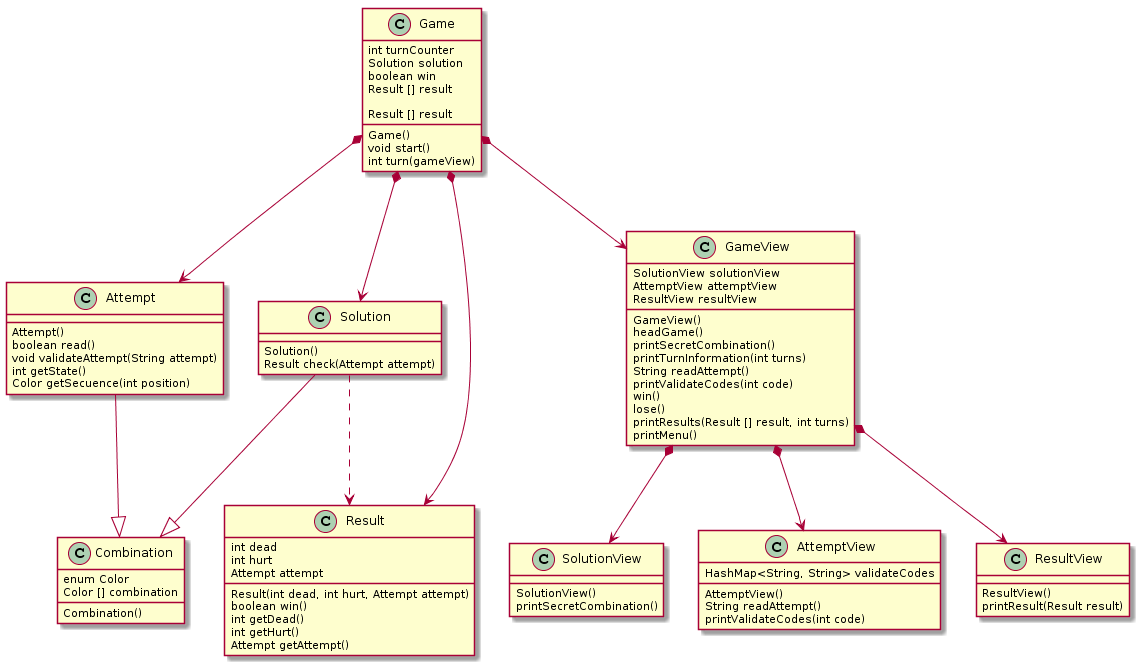
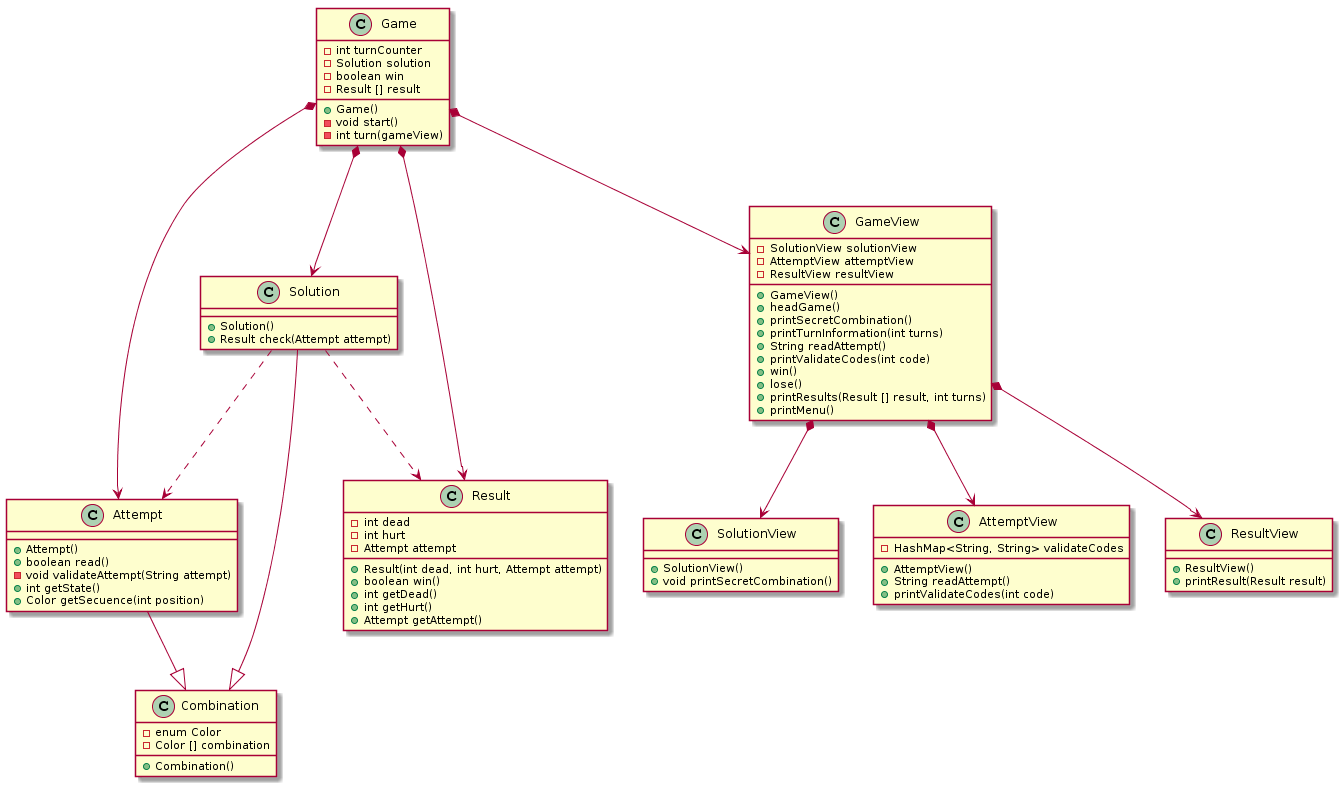
Code cleaned

diff --git a/src/Attempt.java b/src/Attempt.java
@@ -1,47 +1,17 @@
 
 public class Attempt extends Combination{
 	
-	private int state;
-	
 	public Attempt(String input){
 		this.combination = new Color[4];
-		this.validateAttempt(input);
-		if(state == 0){
-			for(int i = 0; i < input.length(); i++){
-				for(Color color : Color.values()) {
-					
-					if(color.toString().equals( input.substring(i, i+1)) ){
-						this.combination[i] = color;
-					}
+		for(int i = 0; i < input.length(); i++){
+			for(Color color : Color.values()) {
+				if(color.toString().equals( input.substring(i, i+1)) ){
+					this.combination[i] = color;
 				}
 			}
 		}
 	}
 	
-	private void validateAttempt(String attempt){
-		if(attempt.length() != 4){
-			this.state = 2;
-		}
-		else{
-			for(int i = 0; i < attempt.length(); i++){
-				boolean exist = false;
-				for(Color color : Color.values()){
-					if(color.name() == attempt.substring(i, i+1)){
-						combination[i] = color;
-						exist = true;
-					}
-					if(!exist){
-						this.state = 1;
-					}
-				}
-			}
-		}
-		this.state = 0;
-	}
-	
-	public int getState(){
-		return this.state;
-	}
 	
 	public Color getCombination(int position){
 		return combination[position];

diff --git a/src/Game.java b/src/Game.java
@@ -18,16 +18,13 @@ public class Game {
 		this.result = new ArrayList<Result>();
 	}
 	
-	public int nextAttempt(String attemptInput){	
+	public void nextAttempt(String attemptInput){	
 		Attempt attempt = new Attempt(attemptInput);
-	    if(attempt.getState() == 0){
-	    	this.result.add(this.solution.check(attempt));
-	    	if(!this.result.get(this.result.size()-1).win()){    		
-	    	} else {
-	    		this.win = true;
-	    	}
-	    }
-		return attempt.getState();
+    	this.result.add(this.solution.check(attempt));
+    	if(!this.result.get(this.result.size()-1).win()){    		
+    	} else {
+    		this.win = true;
+    	}
 	}
 	
 	public boolean isWon(){

diff --git a/src/GameView.java b/src/GameView.java
@@ -25,12 +25,11 @@ public class GameView {
 			this.solutionView.printSecretCombination();
 			this.printResults(this.game.getResult());
 			this.printAttemptNumberInformation(game.getAttemptNumber());
-			int stateCode = this.game.nextAttempt(this.attemptView.readAttempt());
+			this.game.nextAttempt(this.attemptView.readAttempt());
 			finished = game.isWon();
 		} while(!finished && game.getAttemptNumber()<10);
 		this.winLose();
 		this.menuOption();
-		
 	}
 	
 	private void headGame(){
